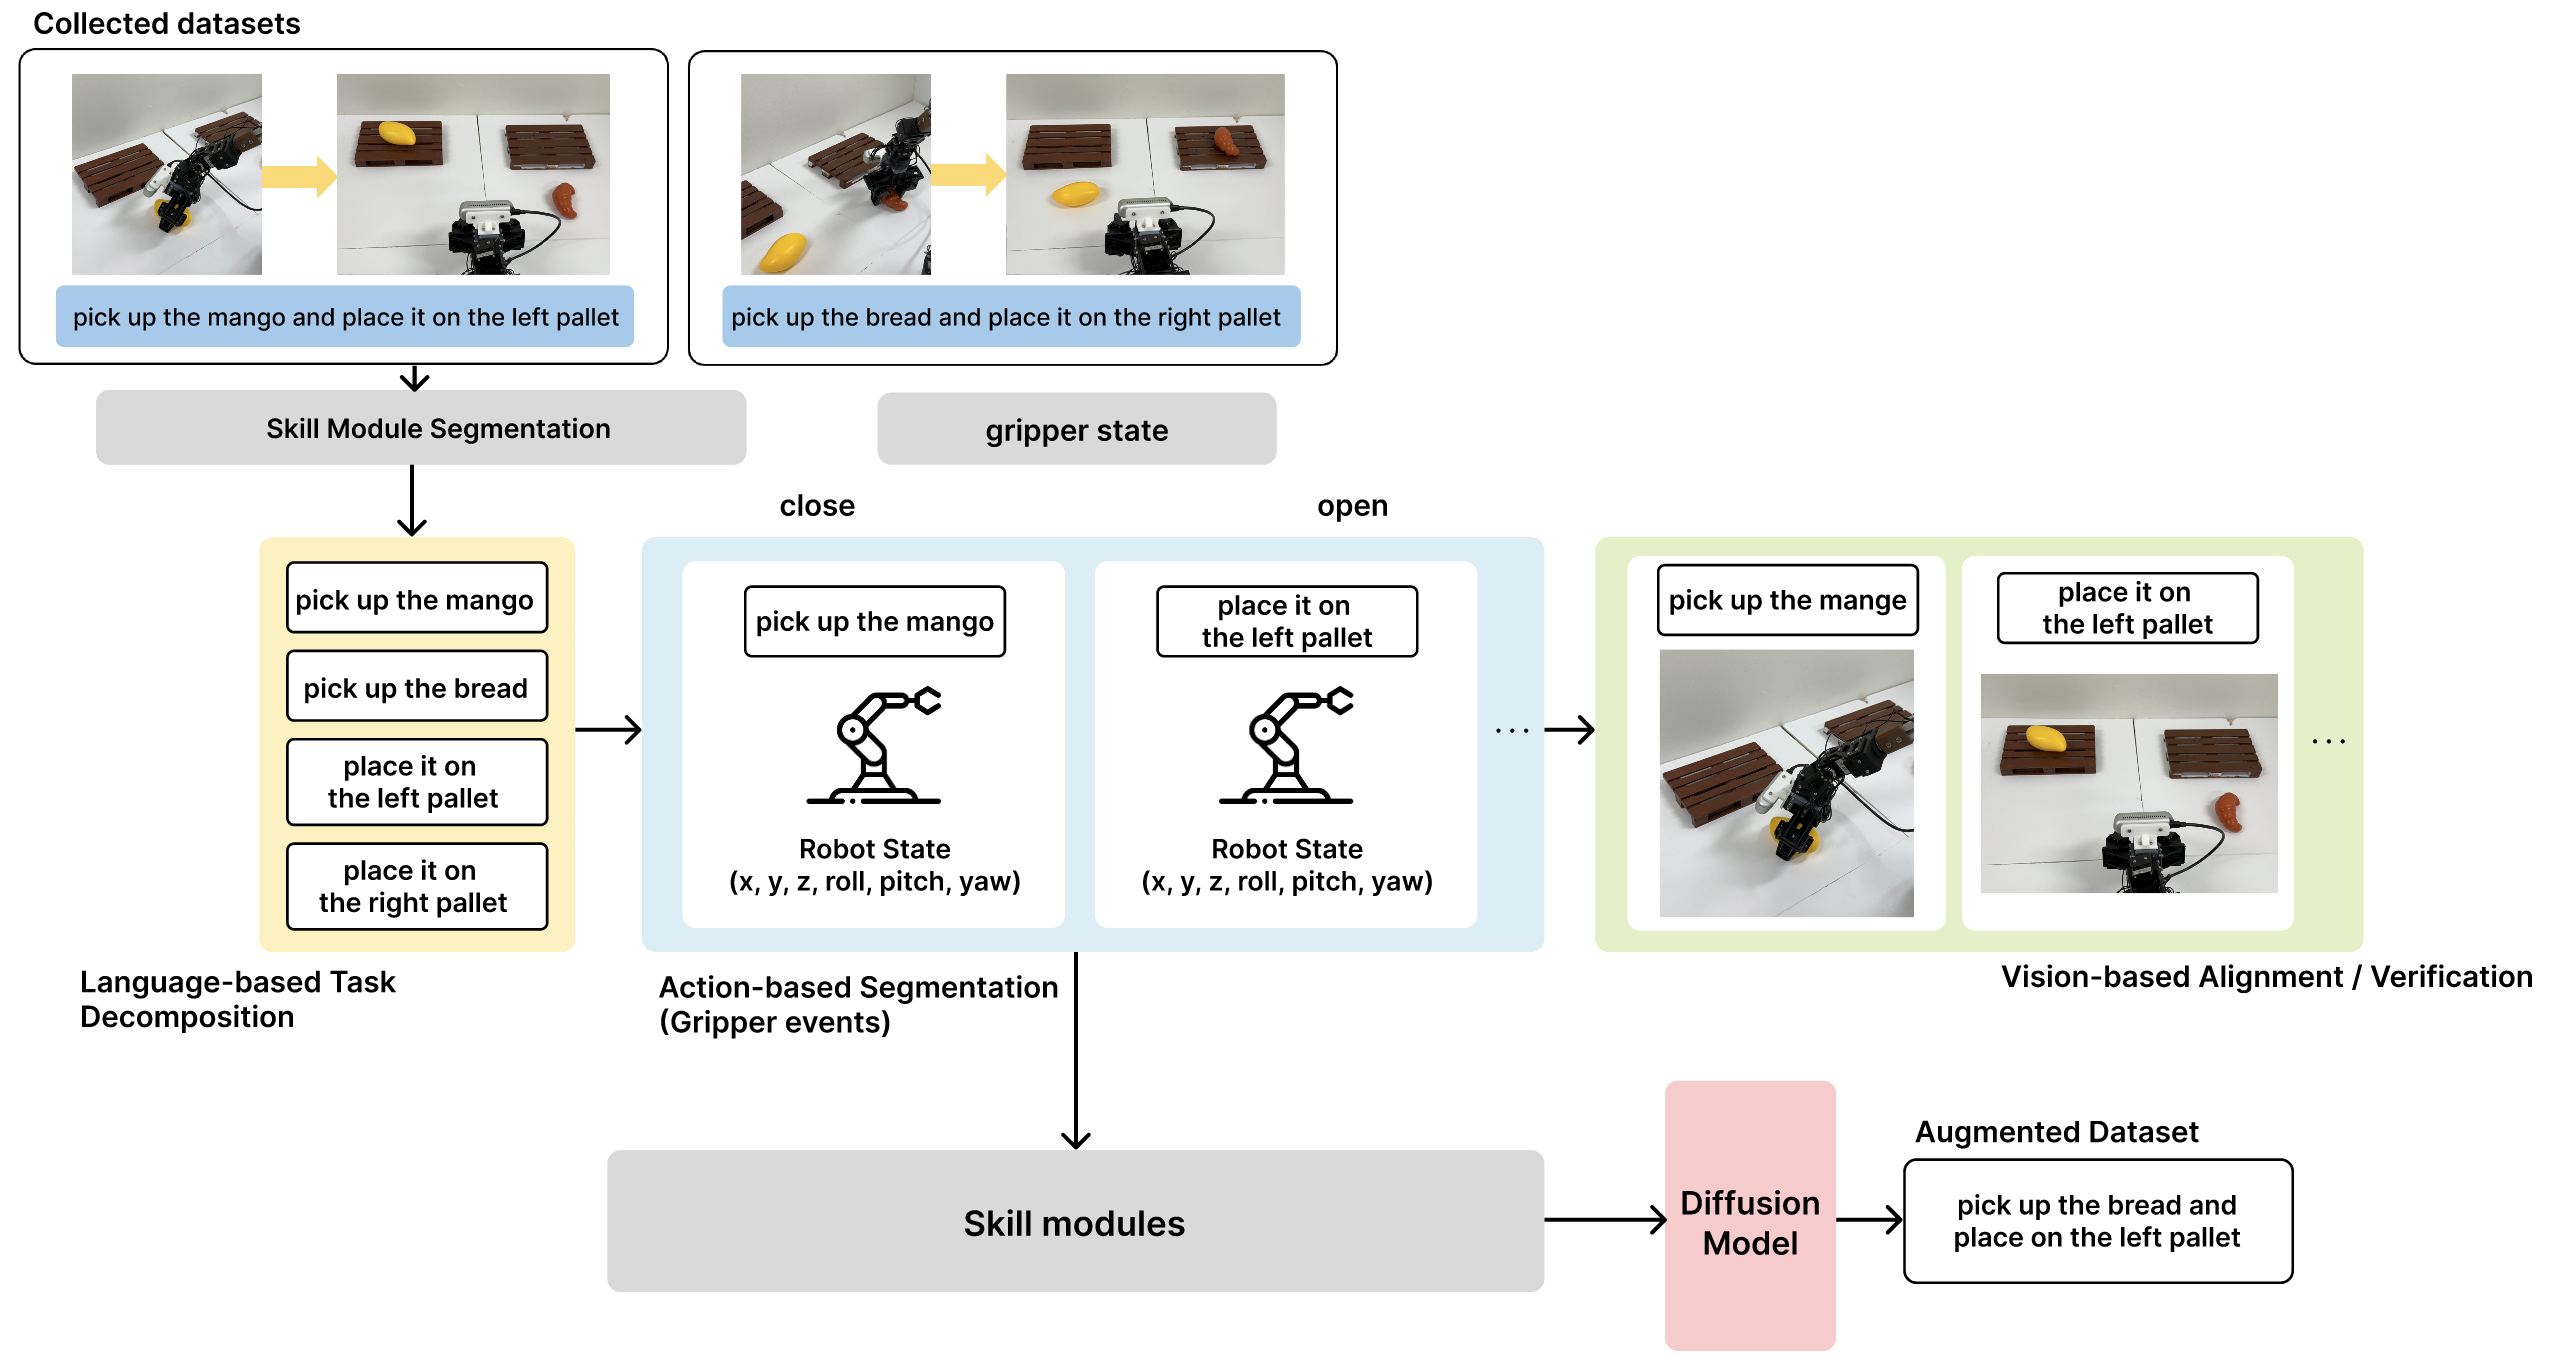
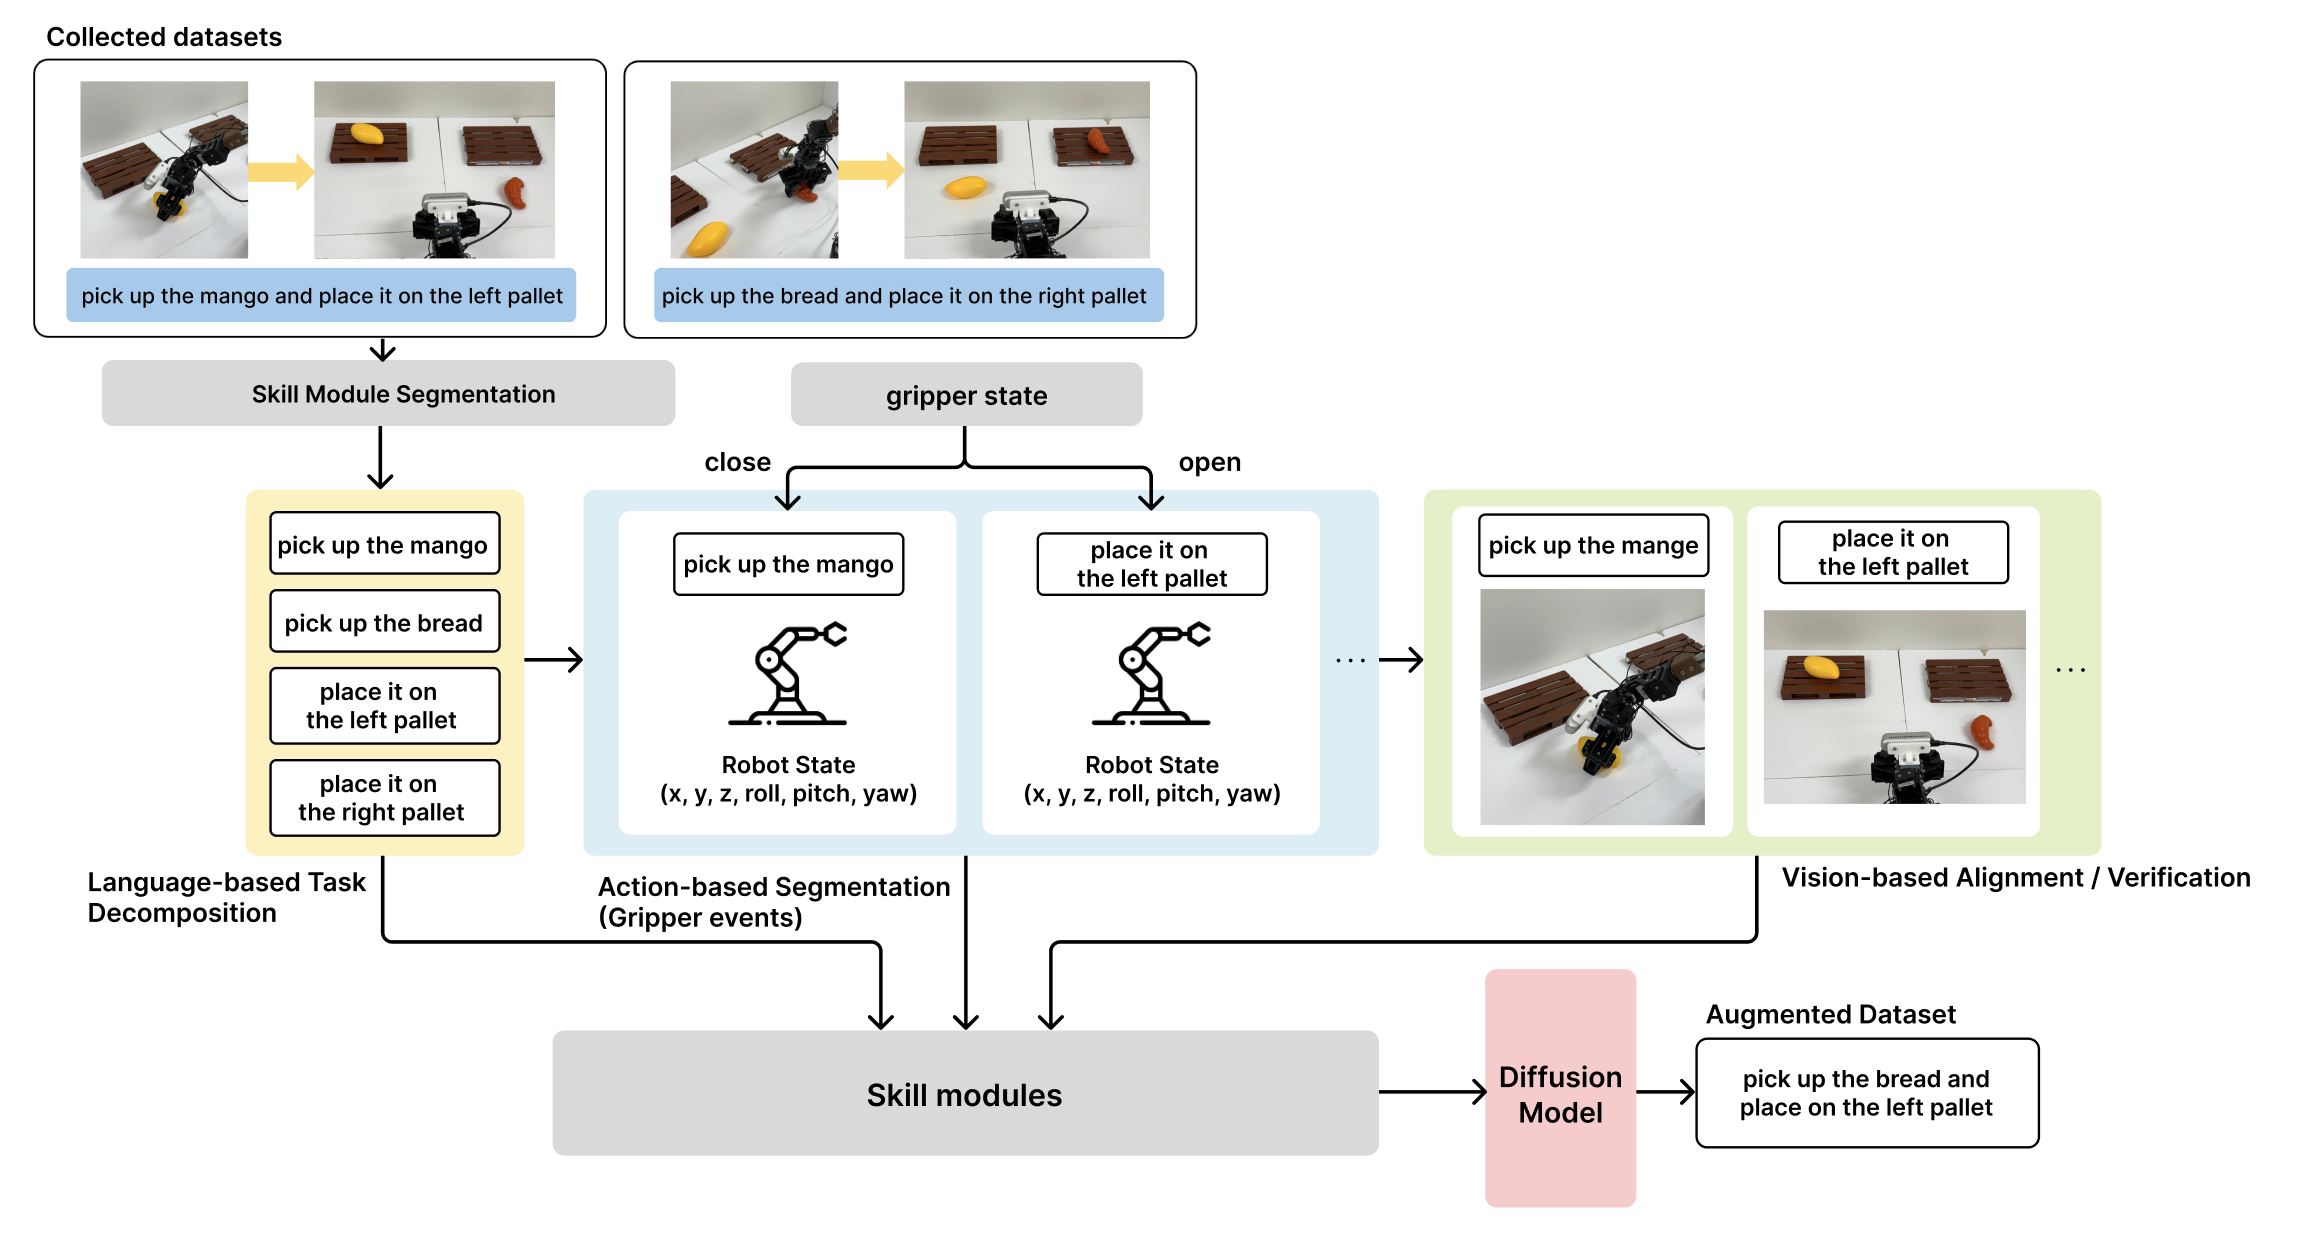
Update MARS research figure

Changed region(s): [[0.0, 0.0, 0.9991, 1.0]]

diff --git a/index.html b/index.html
@@ -204,12 +204,12 @@
                 A study on recombining action modules to synthesize training data for robot imitation learning.
               </p>
               <figure class="project-figure">
-                <button class="image-zoom-button" type="button" data-image="assets/research/mars-action-module-recombination.png" data-alt="MARS pipeline for decomposing demonstrations into reusable action modules and synthesizing augmented imitation-learning data" aria-label="Enlarge MARS research figure" aria-haspopup="dialog">
+                <button class="image-zoom-button" type="button" data-image="assets/research/mars-action-module-recombination.png?v=20261001-2" data-alt="MARS pipeline for decomposing demonstrations into reusable action modules and synthesizing augmented imitation-learning data" aria-label="Enlarge MARS research figure" aria-haspopup="dialog">
                   <img
-                    src="assets/research/mars-action-module-recombination.png"
+                    src="assets/research/mars-action-module-recombination.png?v=20261001-2"
                     alt="MARS pipeline for decomposing demonstrations into reusable action modules and synthesizing augmented imitation-learning data"
-                    width="2550"
-                    height="1366"
+                    width="2306"
+                    height="1236"
                     loading="lazy"
                   />
                 </button>
